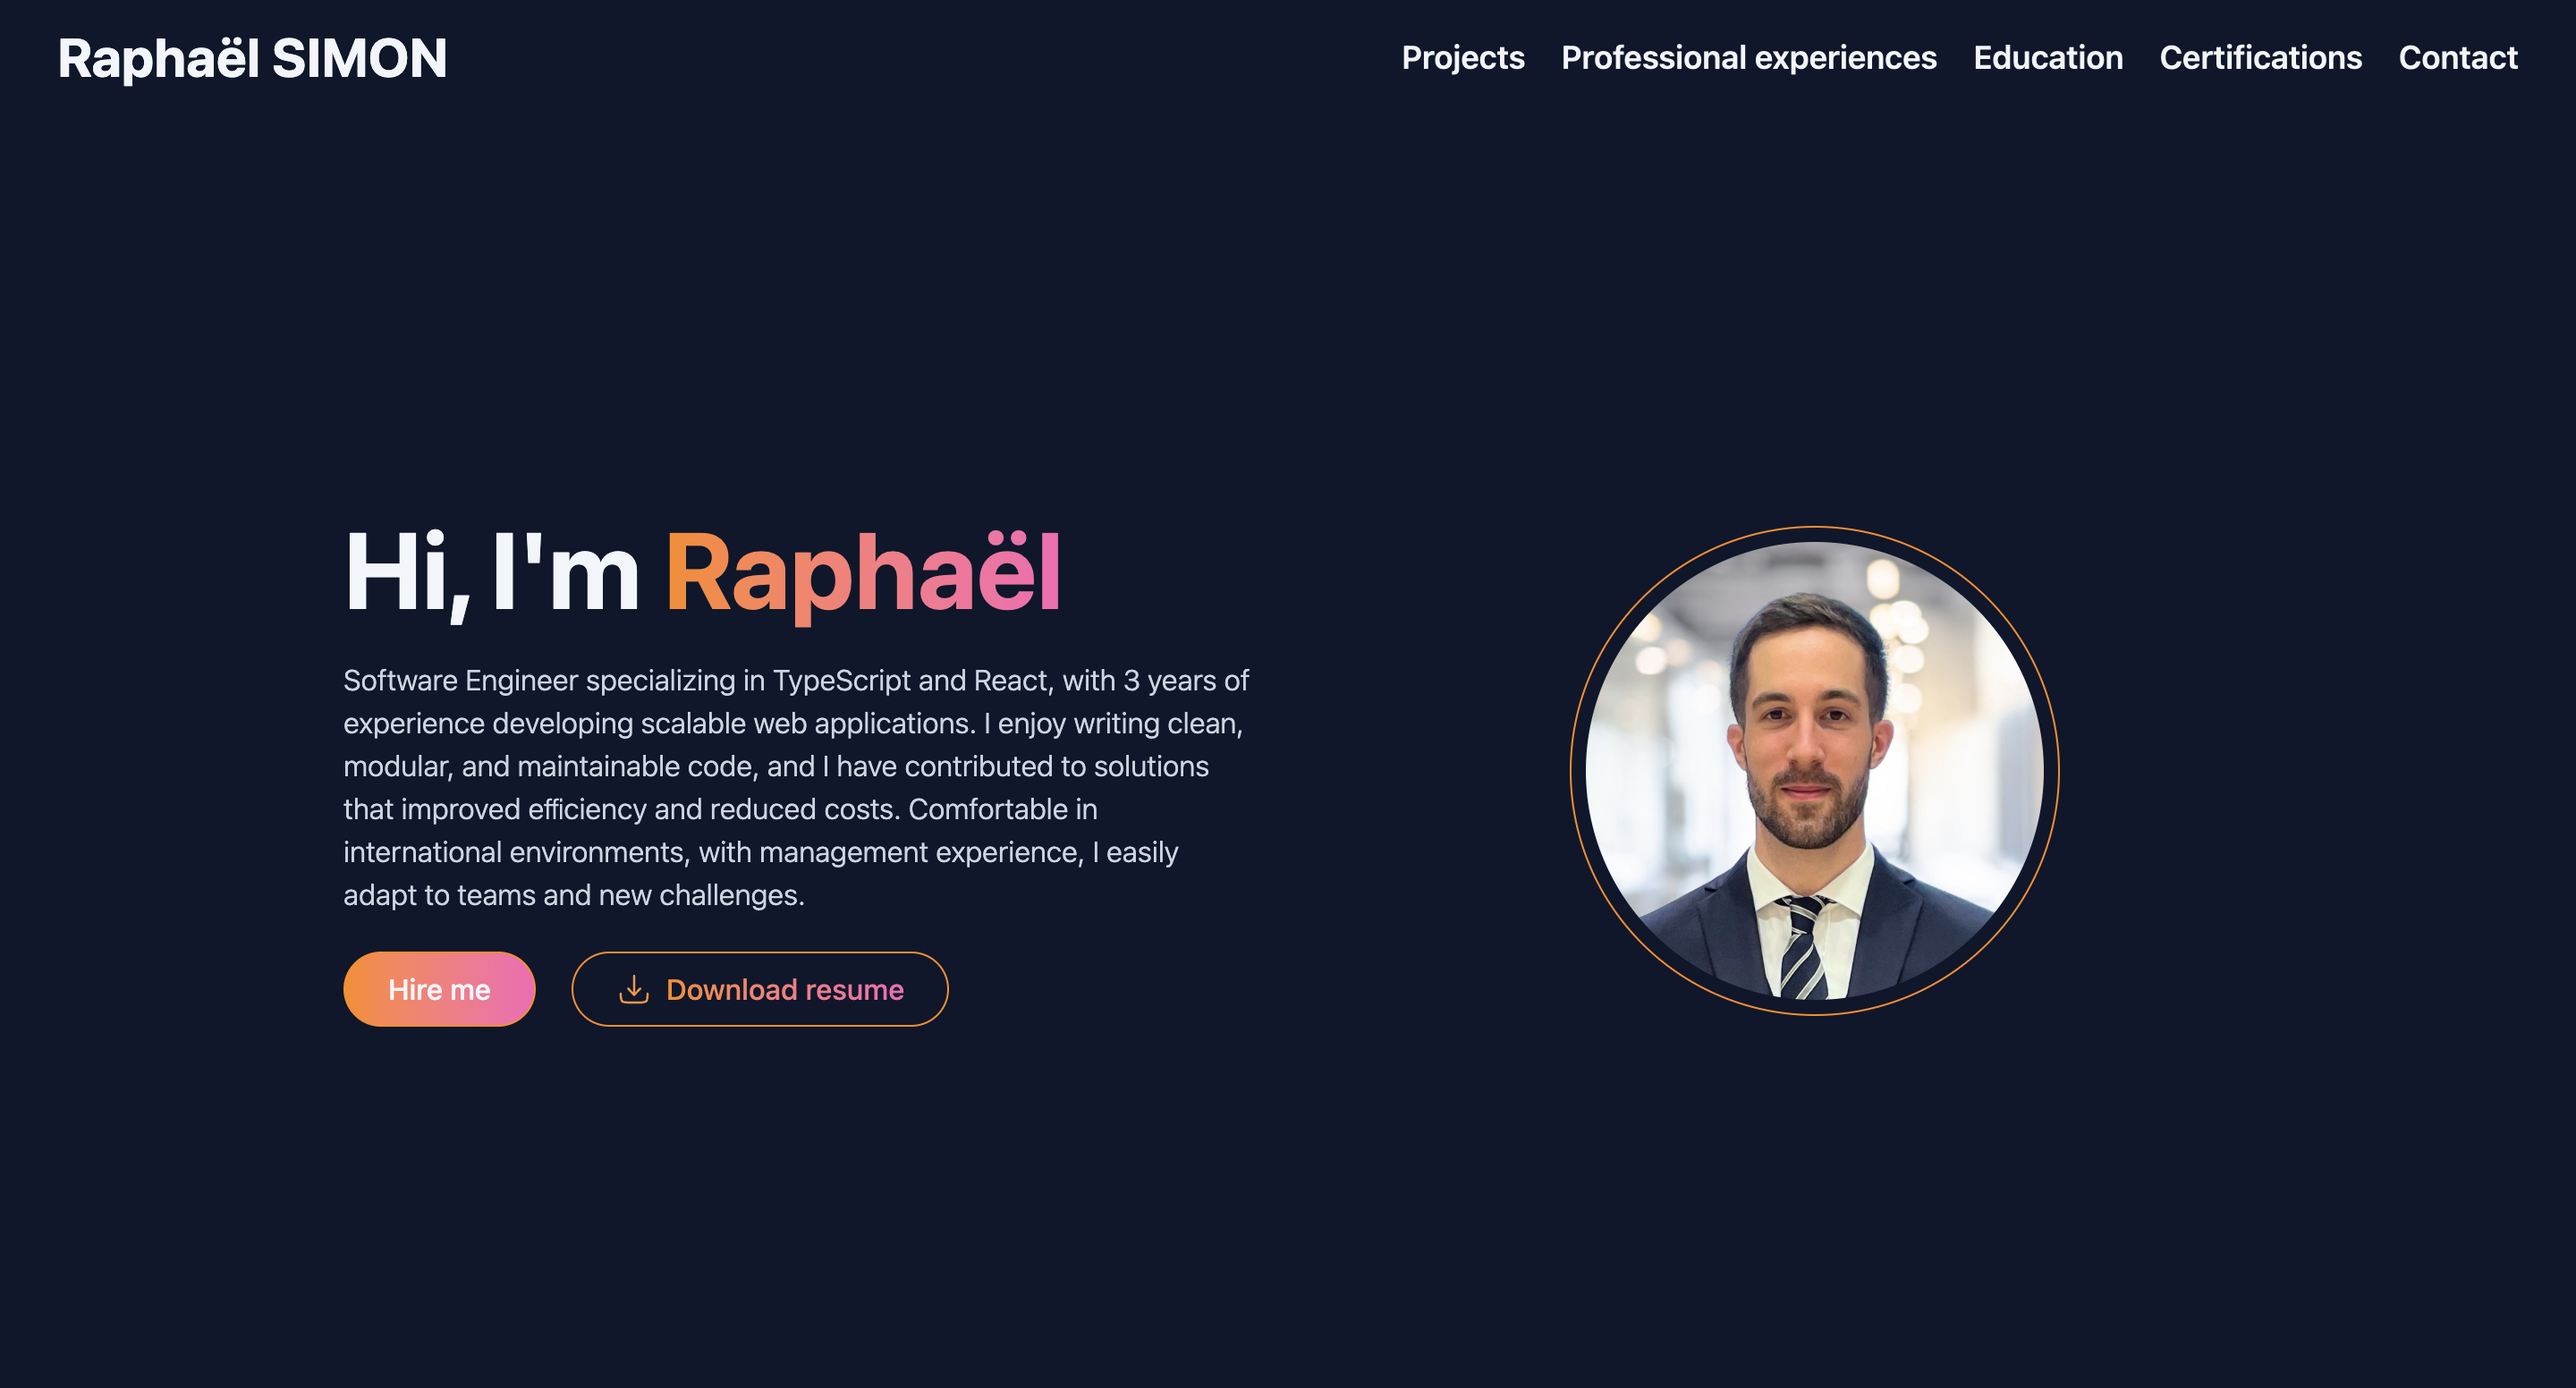
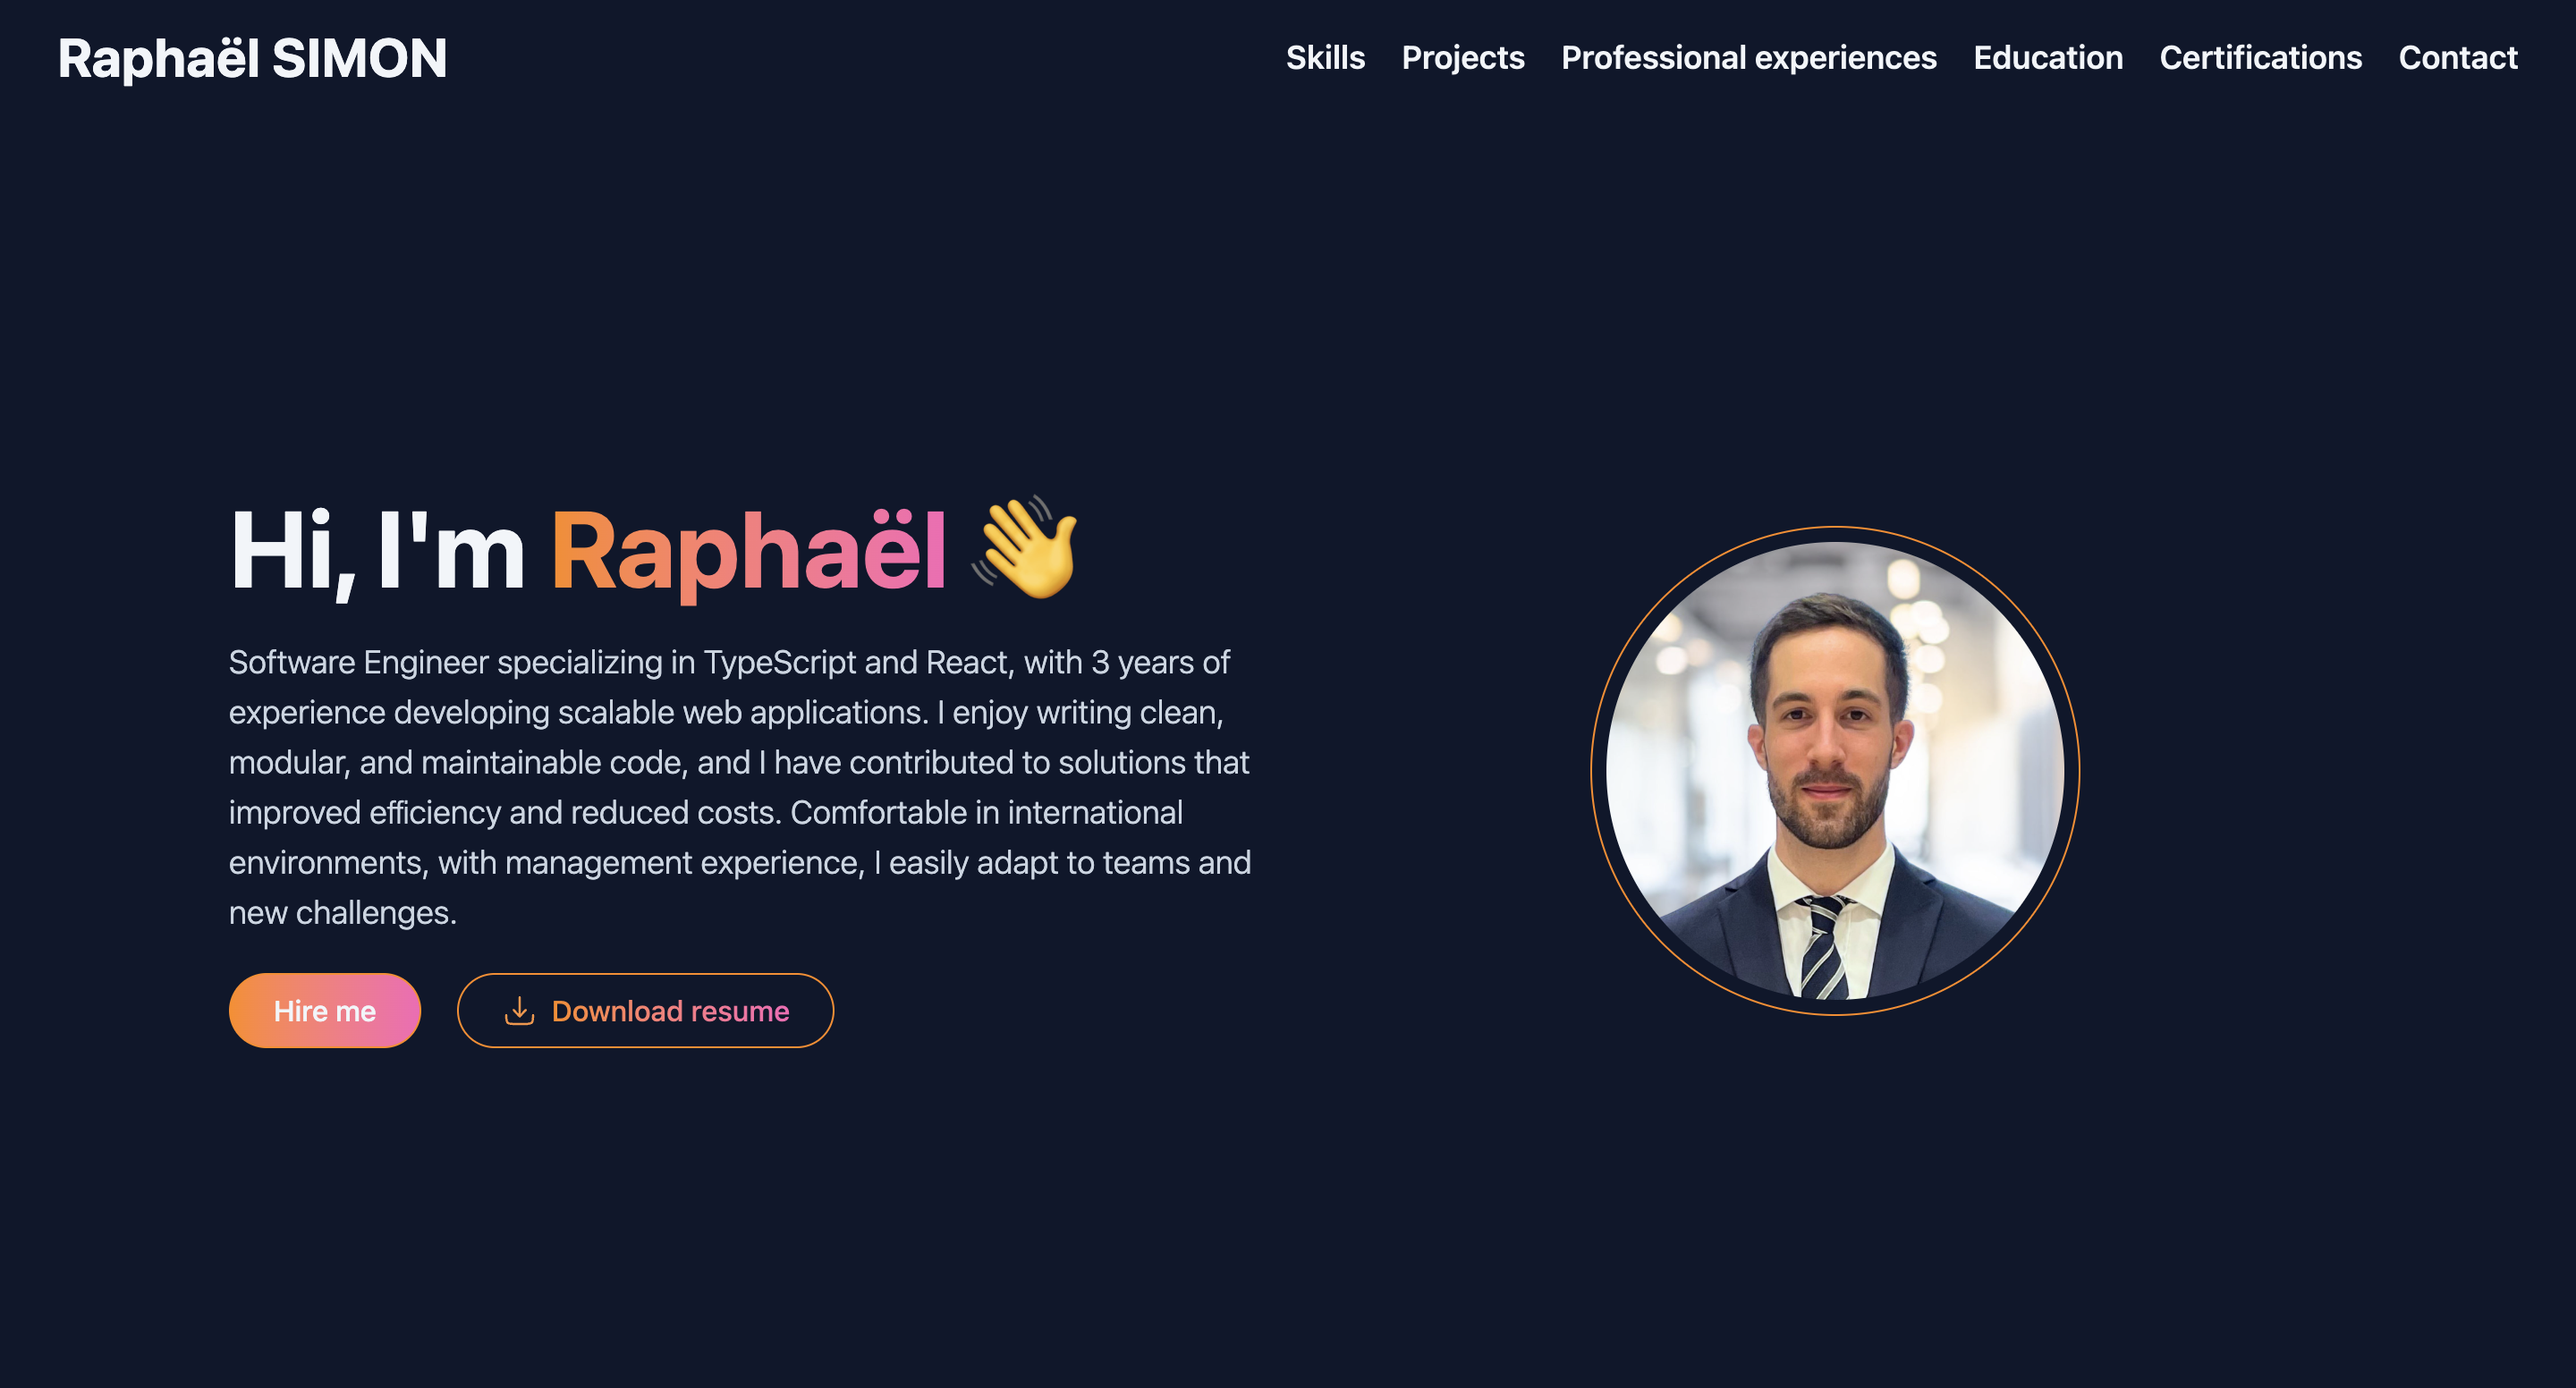
update portfolio and add skills section

Changed region(s): [[0.0625, 0.3402, 0.5, 0.7732], [0.5938, 0.3711, 0.8125, 0.7423], [0.5, 0.0309, 0.5312, 0.0619]]

diff --git a/src/components/Skills.vue b/src/components/Skills.vue
@@ -1,0 +1,181 @@
+<script setup>
+import { ref, onMounted } from "vue";
+import { OhVueIcon, addIcons } from "oh-vue-icons";
+import {
+  SiJavascript,
+  SiTypescript,
+  SiPython,
+  SiReact,
+  SiNextdotjs,
+  SiVuedotjs,
+  SiNodedotjs,
+  SiTailwindcss,
+  SiStyledcomponents,
+  SiStorybook,
+  SiFigma,
+  SiJest,
+  SiCypress,
+  SiGithubactions,
+  SiMongodb,
+  SiPostgresql,
+  SiSqlite,
+  SiGoogleanalytics,
+  SiAdobe,
+  SiGit,
+  SiGithub,
+  SiGitlab,
+  SiJira,
+  SiSlack,
+  SiMicrosoftteams,
+  BiCode,
+} from "oh-vue-icons/icons";
+
+addIcons(
+  SiJavascript,
+  SiTypescript,
+  SiPython,
+  SiReact,
+  SiNextdotjs,
+  SiVuedotjs,
+  SiNodedotjs,
+  SiTailwindcss,
+  SiStyledcomponents,
+  SiStorybook,
+  SiFigma,
+  SiJest,
+  SiCypress,
+  SiGithubactions,
+  SiMongodb,
+  SiPostgresql,
+  SiSqlite,
+  SiGoogleanalytics,
+  SiAdobe,
+  SiGit,
+  SiGithub,
+  SiGitlab,
+  SiJira,
+  SiSlack,
+  SiMicrosoftteams,
+  BiCode
+);
+
+const skills = ref([]);
+
+onMounted(async () => {
+  const response = await fetch("/data/data.json");
+  const data = await response.json();
+  skills.value = data.skills;
+});
+</script>
+
+<template>
+  <section class="pb-20 min-h-screen px-8 lg:px-32" id="skills">
+    <h2
+      class="text-3xl md:text-4xl lg:text-5xl font-bold bg-gradient-to-r from-orange-400 to-pink-400 bg-clip-text text-transparent inline-block mt-12"
+    >
+      ./skills
+    </h2>
+
+    <!-- Languages & Frameworks -->
+    <div class="mt-12">
+      <h3 class="text-xl md:text-2xl font-semibold text-gray-200">
+        Languages & Frameworks
+      </h3>
+      <div class="grid grid-cols-2 md:grid-cols-4 lg:grid-cols-5 gap-4 mt-4">
+        <p
+          v-for="skill in skills.languagesFrameworks"
+          :key="skill.name"
+          class="text-sm md:text-lg font-medium bg-slate-800 p-3 rounded-lg flex items-center gap-2"
+        >
+          <OhVueIcon :name="skill.icon" />
+          {{ skill.name }}
+        </p>
+      </div>
+    </div>
+
+    <!-- UI & Styling -->
+    <div class="mt-8">
+      <h3 class="text-xl md:text-2xl font-semibold text-gray-200">
+        UI & Styling
+      </h3>
+      <div class="grid grid-cols-2 md:grid-cols-4 lg:grid-cols-5 gap-4 mt-4">
+        <p
+          v-for="skill in skills.uiStyling"
+          :key="skill.name"
+          class="text-sm md:text-lg font-medium bg-slate-800 p-3 rounded-lg flex items-center gap-2"
+        >
+          <OhVueIcon :name="skill.icon" />
+          {{ skill.name }}
+        </p>
+      </div>
+    </div>
+
+    <!-- Testing & Automation -->
+    <div class="mt-8">
+      <h3 class="text-xl md:text-2xl font-semibold text-gray-200">
+        Testing & Automation
+      </h3>
+      <div class="grid grid-cols-2 md:grid-cols-4 lg:grid-cols-5 gap-4 mt-4">
+        <p
+          v-for="skill in skills.testingAutomation"
+          :key="skill.name"
+          class="text-sm md:text-lg font-medium bg-slate-800 p-3 rounded-lg flex items-center gap-2"
+        >
+          <OhVueIcon :name="skill.icon" />
+          {{ skill.name }}
+        </p>
+      </div>
+    </div>
+
+    <!-- Databases & APIs -->
+    <div class="mt-8">
+      <h3 class="text-xl md:text-2xl font-semibold text-gray-200">
+        Databases & APIs
+      </h3>
+      <div class="grid grid-cols-2 md:grid-cols-4 lg:grid-cols-5 gap-4 mt-4">
+        <p
+          v-for="skill in skills.databasesApis"
+          :key="skill.name"
+          class="text-sm md:text-lg font-medium bg-slate-800 p-3 rounded-lg flex items-center gap-2"
+        >
+          <OhVueIcon :name="skill.icon" />
+          {{ skill.name }}
+        </p>
+      </div>
+    </div>
+
+    <!-- Analytics & Tracking -->
+    <div class="mt-8">
+      <h3 class="text-xl md:text-2xl font-semibold text-gray-200">
+        Analytics & Tracking
+      </h3>
+      <div class="grid grid-cols-2 md:grid-cols-4 lg:grid-cols-5 gap-4 mt-4">
+        <p
+          v-for="skill in skills.analyticsTracking"
+          :key="skill.name"
+          class="text-sm md:text-lg font-medium bg-slate-800 p-3 rounded-lg flex items-center gap-2"
+        >
+          <OhVueIcon :name="skill.icon" />
+          {{ skill.name }}
+        </p>
+      </div>
+    </div>
+
+    <!-- Version Control & Tools -->
+    <div class="mt-8">
+      <h3 class="text-xl md:text-2xl font-semibold text-gray-200">
+        Version Control & Tools
+      </h3>
+      <div class="grid grid-cols-2 md:grid-cols-4 lg:grid-cols-5 gap-4 mt-4">
+        <p
+          v-for="skill in skills.versionControlTools"
+          :key="skill.name"
+          class="text-sm md:text-lg font-medium bg-slate-800 p-3 rounded-lg flex items-center gap-2"
+        >
+          <OhVueIcon :name="skill.icon" />
+          {{ skill.name }}
+        </p>
+      </div>
+    </div>
+  </section>
+</template>

diff --git a/src/components/Hero.vue b/src/components/Hero.vue
@@ -14,10 +14,10 @@ AOS.init();
   >
     <div class="flex justify-center items-center">
       <div
-        class="flex justify-center items-center flex-col md:flex-row gap-8 md:gap-10 px-6 text-center md:text-left"
+        class="flex justify-center items-center flex-col md:flex-row gap-8 md:gap-10 px-6 md:px-0 text-center md:text-left"
       >
         <div
-          class="flex justify-center md:w-[50%] flex-col h-full gap-5 md:pl-10 -mt-24 md:-mt-12"
+          class="flex justify-center md:w-[50%] flex-col h-full gap-5 -mt-24 md:-mt-12"
         >
           <h1 class="font-bold text-3xl md:text-5xl lg:text-6xl">
             Hi, I'm
@@ -27,7 +27,7 @@ AOS.init();
             >
             👋
           </h1>
-          <p class="text-slate-300 font-light">
+          <p class="text-sm md:text-lg lg:text-lg text-slate-300 font-light">
             Software Engineer specializing in TypeScript and React, with 3 years
             of experience developing scalable web applications. I enjoy writing
             clean, modular, and maintainable code, and I have contributed to
@@ -38,7 +38,7 @@ AOS.init();
           <div class="flex gap-5 justify-center items-center md:justify-start">
             <a
               href="#contact"
-              class="rounded-full bg-gradient-to-r from-orange-400 to-pink-400 border border-orange-400 px-6 py-2 cursor-pointer font-medium transition-all duration-300 hover:bg-gradient-to-r hover:from-pink-400 hover:to-orange-400"
+              class="rounded-full bg-gradient-to-r from-orange-400 to-pink-400 border border-orange-400 px-4 py-1 md:px-6 md:py-2 cursor-pointer font-medium transition-all duration-300 hover:bg-gradient-to-r hover:from-pink-400 hover:to-orange-400 text-center"
             >
               Hire me
             </a>
@@ -46,7 +46,7 @@ AOS.init();
             <a
               :href="resume"
               target="_blank"
-              class="rounded-full border border-orange-400 px-6 py-2 flex items-center space-x-2 cursor-pointer"
+              class="rounded-full border border-orange-400 px-4 py-1 md:px-6 md:py-2 flex items-center space-x-2 cursor-pointer text-center"
             >
               <span>
                 <svg
@@ -84,7 +84,7 @@ AOS.init();
             <img
               :src="picture"
               alt="Profile Picture"
-              class="h-48 md:h-64 rounded-full"
+              class="h-36 sm:h-48 md:h-64 rounded-full"
             />
           </div>
         </div>

diff --git a/src/components/ProfessionalExperiences.vue b/src/components/ProfessionalExperiences.vue
@@ -4,12 +4,12 @@ import { defineAsyncComponent, ref, onMounted } from "vue";
 const ExperienceCard = defineAsyncComponent(() =>
   import("./ProfessionalExperienceCard.vue")
 );
-const experiences = ref([]);
+const professionalExperiences = ref([]);
 
 onMounted(async () => {
   const response = await fetch("/data/data.json");
   const data = await response.json();
-  experiences.value = data.experiences;
+  professionalExperiences.value = data.professionalExperiences;
 });
 </script>
 
@@ -20,18 +20,18 @@ onMounted(async () => {
     data-aos="zoom-in-up"
   >
     <h2
-      class="text-5xl font-bold bg-gradient-to-r from-orange-400 to-pink-400 bg-clip-text text-transparent inline-block mt-12"
+      class="text-3xl md:text-4xl lg:text-5xl font-bold bg-gradient-to-r from-orange-400 to-pink-400 bg-clip-text text-transparent inline-block mt-12"
     >
       ./professional-experiences
     </h2>
 
-    <div v-if="experiences.length === 0">
+    <div v-if="professionalExperiences.length === 0">
       <p>Loading experiences...</p>
     </div>
 
     <div class="flex flex-col gap-5 mt-12">
       <ExperienceCard
-        v-for="experience in experiences"
+        v-for="experience in professionalExperiences"
         :key="experience.title"
         :experience="experience"
       />

diff --git a/src/App.vue b/src/App.vue
@@ -3,6 +3,7 @@ import { defineAsyncComponent } from "vue";
 
 const Navbar = defineAsyncComponent(() => import("@/components/Navbar.vue"));
 const Hero = defineAsyncComponent(() => import("@/components/Hero.vue"));
+const Skills = defineAsyncComponent(() => import("@/components/Skills.vue"));
 const Projects = defineAsyncComponent(() =>
   import("@/components/Projects.vue")
 );
@@ -25,6 +26,7 @@ const ScrollToTop = defineAsyncComponent(() =>
   <div class="bg-slate-900 min-h-screen text-slate-100">
     <Navbar />
     <Hero />
+    <Skills />
     <Projects />
     <ProfessionalExperiences />
     <Education />

diff --git a/src/components/Projects.vue b/src/components/Projects.vue
@@ -9,8 +9,6 @@ onMounted(async () => {
   const data = await response.json();
   projects.value = data.projects;
 });
-
-console.log(projects);
 </script>
 
 <template>
@@ -20,7 +18,7 @@ console.log(projects);
     data-aos="zoom-in-up"
   >
     <h2
-      class="text-5xl font-bold bg-gradient-to-r from-orange-400 to-pink-400 bg-clip-text text-transparent inline-block mt-12"
+      class="text-3xl md:text-4xl lg:text-5xl font-bold bg-gradient-to-r from-orange-400 to-pink-400 bg-clip-text text-transparent inline-block mt-12"
     >
       ./projects
     </h2>

diff --git a/src/components/Contact.vue b/src/components/Contact.vue
@@ -9,7 +9,7 @@ import linkedin from "@/assets/linkedin.svg";
     data-aos="zoom-in-up"
   >
     <h2
-      class="text-5xl font-bold bg-gradient-to-r from-orange-400 to-pink-400 bg-clip-text text-transparent inline-block mt-12"
+      class="text-3xl md:text-4xl lg:text-5xl font-bold bg-gradient-to-r from-orange-400 to-pink-400 bg-clip-text text-transparent inline-block mt-12"
     >
       ./contact
     </h2>

diff --git a/src/components/Certifications.vue b/src/components/Certifications.vue
@@ -20,7 +20,7 @@ onMounted(async () => {
     data-aos="zoom-in-up"
   >
     <h2
-      class="text-5xl font-bold bg-gradient-to-r from-orange-400 to-pink-400 bg-clip-text text-transparent inline-block mt-12"
+      class="text-3xl md:text-4xl lg:text-5xl font-bold bg-gradient-to-r from-orange-400 to-pink-400 bg-clip-text text-transparent inline-block mt-12"
     >
       ./certifications
     </h2>

diff --git a/src/components/Education.vue b/src/components/Education.vue
@@ -18,7 +18,7 @@ onMounted(async () => {
     data-aos="zoom-in-up"
   >
     <h2
-      class="text-5xl font-bold bg-gradient-to-r from-orange-400 to-pink-400 bg-clip-text text-transparent inline-block mt-12"
+      class="text-3xl md:text-4xl lg:text-5xl font-bold bg-gradient-to-r from-orange-400 to-pink-400 bg-clip-text text-transparent inline-block mt-12"
     >
       ./education
     </h2>

diff --git a/src/components/Navbar.vue b/src/components/Navbar.vue
@@ -2,6 +2,7 @@
 import { ref } from "vue";
 
 const menu = ref([
+  { name: "Skills", href: "#skills" },
   { name: "Projects", href: "#projects" },
   { name: "Professional experiences", href: "#professional-experiences" },
   { name: "Education", href: "#education" },
